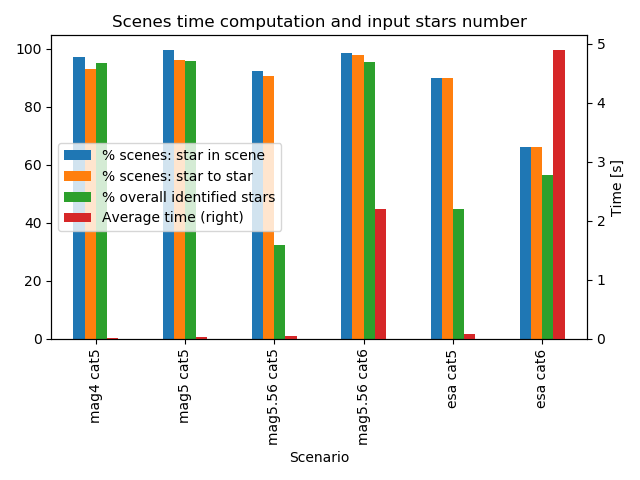
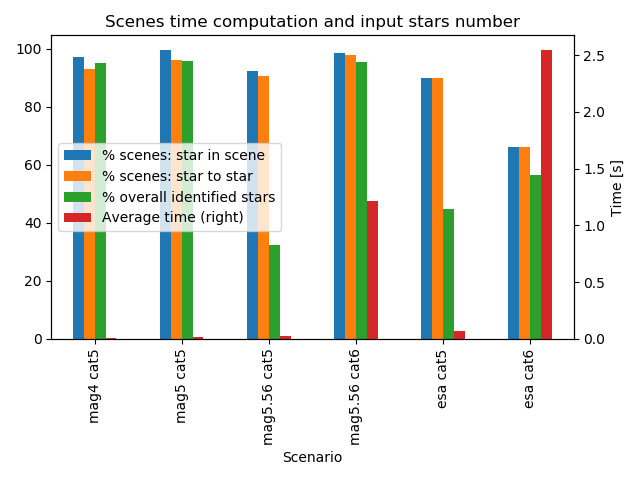
Add gpu vs cpu graph + some new results of star identification times

diff --git a/documents/praca_magisterska.tex b/documents/praca_magisterska.tex
@@ -1334,13 +1334,17 @@ From all the presented methods, \gls{quest} was selected due to low computationa
 
 Star-tracker program was written in Python 3.6 under Anaconda distribution run on ARM processor (on Jetson TX2) with usage of numba library\footnote{"Numba translates Python functions to optimized machine code at runtime using the industry-standard LLVM compiler library. Numba-compiled numerical algorithms in Python can approach the speeds of C or FORTRAN."\cite{numba}} for easy GPU computation. Python was chosen due to simplicity of programming - it is easier and faster to build a program. Additionally due to usage of libraries like numba and numpy\footnote{"NumPy is the fundamental package for scientific computing with Python. It contains among other things: a powerful N-dimensional array object, sophisticated (broadcasting) functions, tools for integrating C/C++ and Fortran code, useful linear algebra, Fourier transform, and random number capabilities."\cite{numpy}} it is only few times slower than if it would be written in C++\cite{numba1}\cite{numba2}\cite{numpy1}. Of course it is possible to rewrite parts of program to C++ for better performance, however it will be around 2-10 times faster with a lot of additional work.
 
+Using CUDA on GPU was chosen because it made program run significantly faster (around 31.6 times faster). The exact difference is visible in Figure \ref{fig:cuda_vs_no_cuda_centroid}.
 
-Using CUDA on GPU was chosen because it made program run significantly faster. The exact difference is visible in Figure...
-TODO ADD CUDA vs NO CUDA!!!!!
-
+\begin{figure}[!htbp]
+\includegraphics[scale=0.55]{cuda_vs_no_cuda_centroid_plot.png}
+\centering
+\caption{Star recognition (centroid calculation): GPU vs CPU}
+\label{fig:cuda_vs_no_cuda_centroid}
+\end{figure}
 
 \subsection{Comparison of designed star-tracker with existing solutions}
-
+TODO ADD STARTRACKER COMPARISON TABLE!!!
 
 \subsection{Star-tracker design}
 

diff --git a/jetson/graph_test_identification.py b/jetson/graph_test_identification.py
@@ -28,14 +28,14 @@ in_scene_good_verify.append(972 / 10)
 in_triangle_good_verify.append(929 / 10)
 exact_good_verify.append(929 / 10)
 percent_identified_stars.append(95.03)
-avg_time.append(0.0079)
+avg_time.append(0.0052)
 
 test_names.append('mag5 cat5')
 in_scene_good_verify.append(996 / 10)
 in_triangle_good_verify.append(961 / 10)
 exact_good_verify.append(960 / 10)
 percent_identified_stars.append(95.89)
-avg_time.append(0.0226)
+avg_time.append(0.0135)
 
 # test_names.append('mag556_uv_cat_mag5')
 test_names.append('mag5.56 cat5')
@@ -43,7 +43,7 @@ in_scene_good_verify.append(922 / 10)
 in_triangle_good_verify.append(904 / 10)
 exact_good_verify.append(904 / 10)
 percent_identified_stars.append(32.2)
-avg_time.append(0.0401)
+avg_time.append(0.0257)
 
 # test_names.append('mag556_uv_cat_mag6')
 test_names.append('mag5.56 cat6')
@@ -51,21 +51,21 @@ in_scene_good_verify.append(984 / 10)
 in_triangle_good_verify.append(979 / 10)
 exact_good_verify.append(979 / 10)
 percent_identified_stars.append(95.47)
-avg_time.append(2.193535611206003)
+avg_time.append(1.2111887203999996)
 
 test_names.append('esa cat5')
 in_scene_good_verify.append(90)
 in_triangle_good_verify.append(90)
 exact_good_verify.append(90)
 percent_identified_stars.append(44.76)
-avg_time.append(0.0871)
+avg_time.append(0.0666)
 
 test_names.append('esa cat6')
 in_scene_good_verify.append(66)
 in_triangle_good_verify.append(66)
 exact_good_verify.append(66)
 percent_identified_stars.append(56.51)
-avg_time.append(4.9)
+avg_time.append(2.547)
 
 
 df = pd.DataFrame(

diff --git a/jetson/graph_cuda_vs_no_cuda_time.py b/jetson/graph_cuda_vs_no_cuda_time.py
@@ -1,0 +1,15 @@
+import matplotlib.pyplot as plt; plt.rcdefaults()
+import numpy as np
+import matplotlib.pyplot as plt
+
+
+objects = ('GPU (CUDA)', 'CPU')
+y_pos = np.arange(len(objects))
+performance = [0.06747964299938758, 2.1326403450002545]
+
+plt.bar(y_pos, performance, align='center', alpha=0.5)
+plt.xticks(y_pos, objects)
+plt.ylabel('Time [s]')
+plt.title('Star recognition (centroid calculation): GPU vs CPU')
+
+plt.show()
